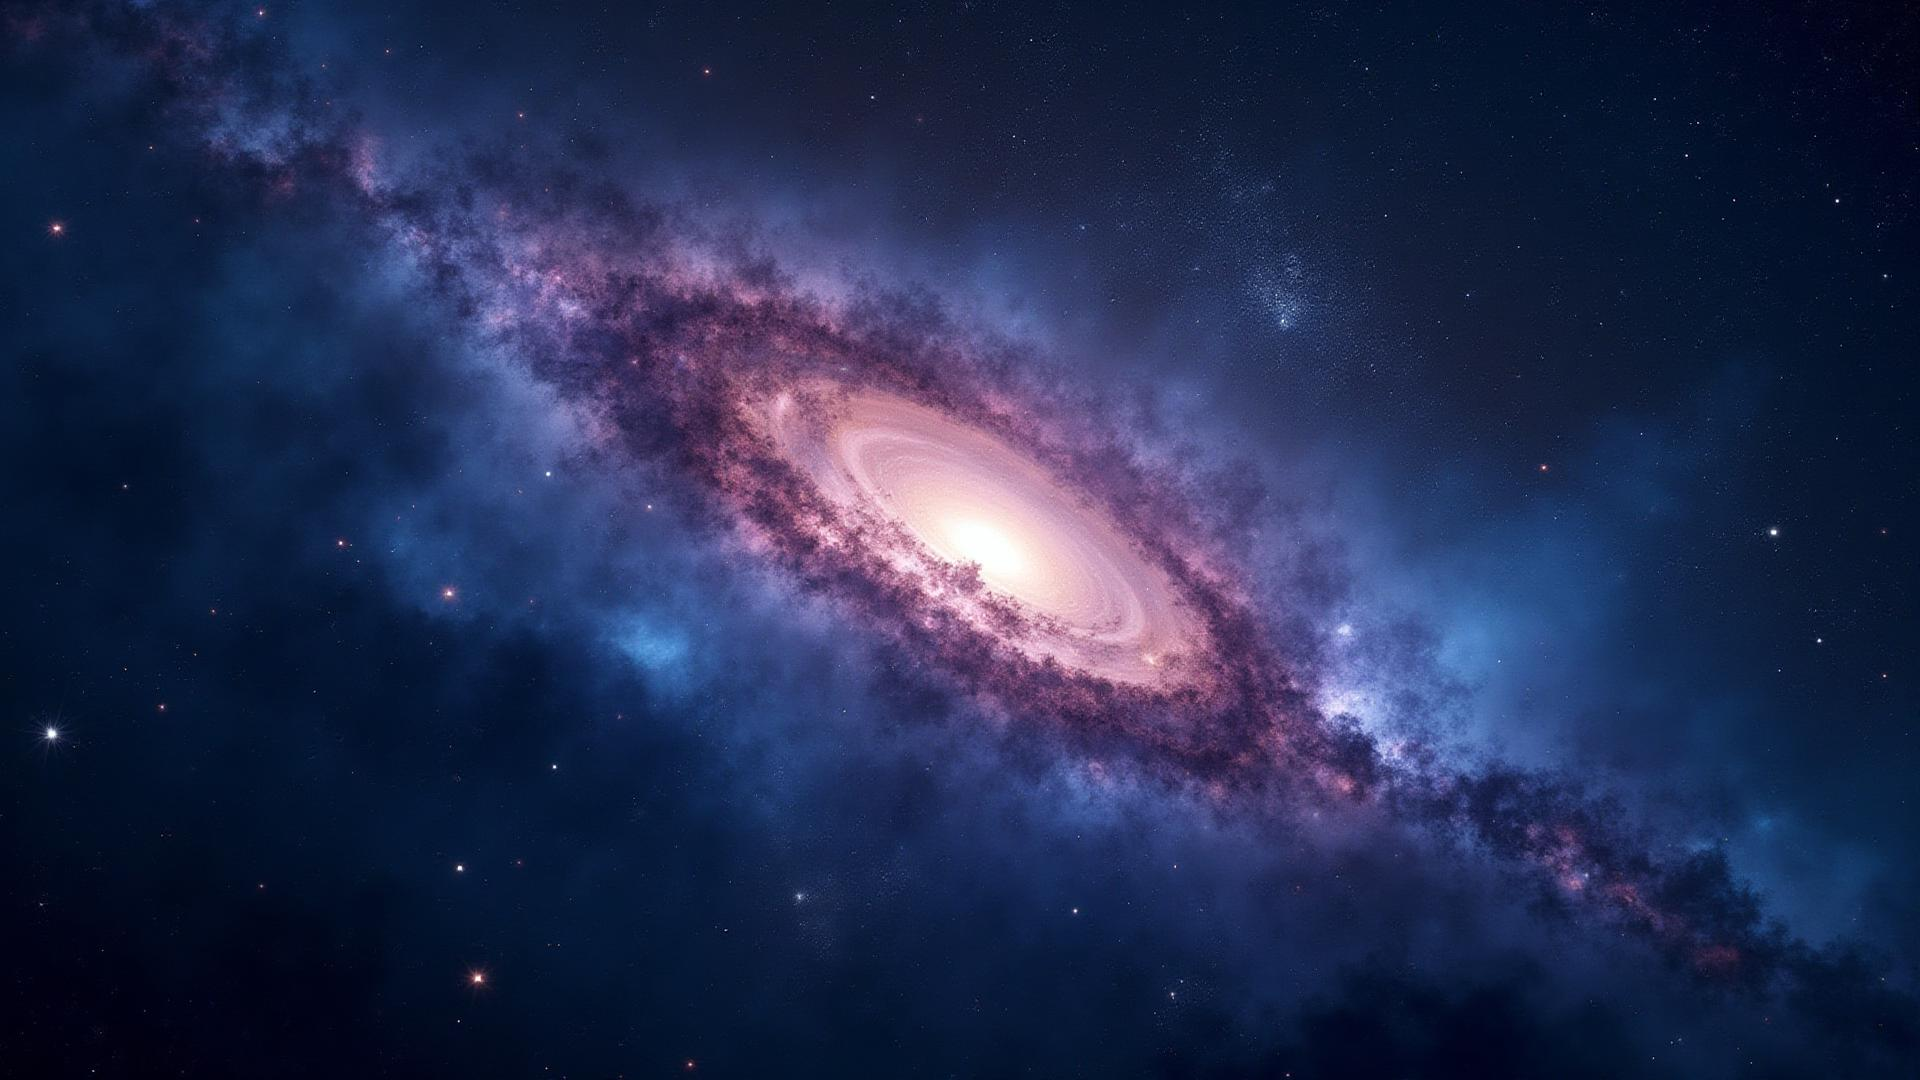
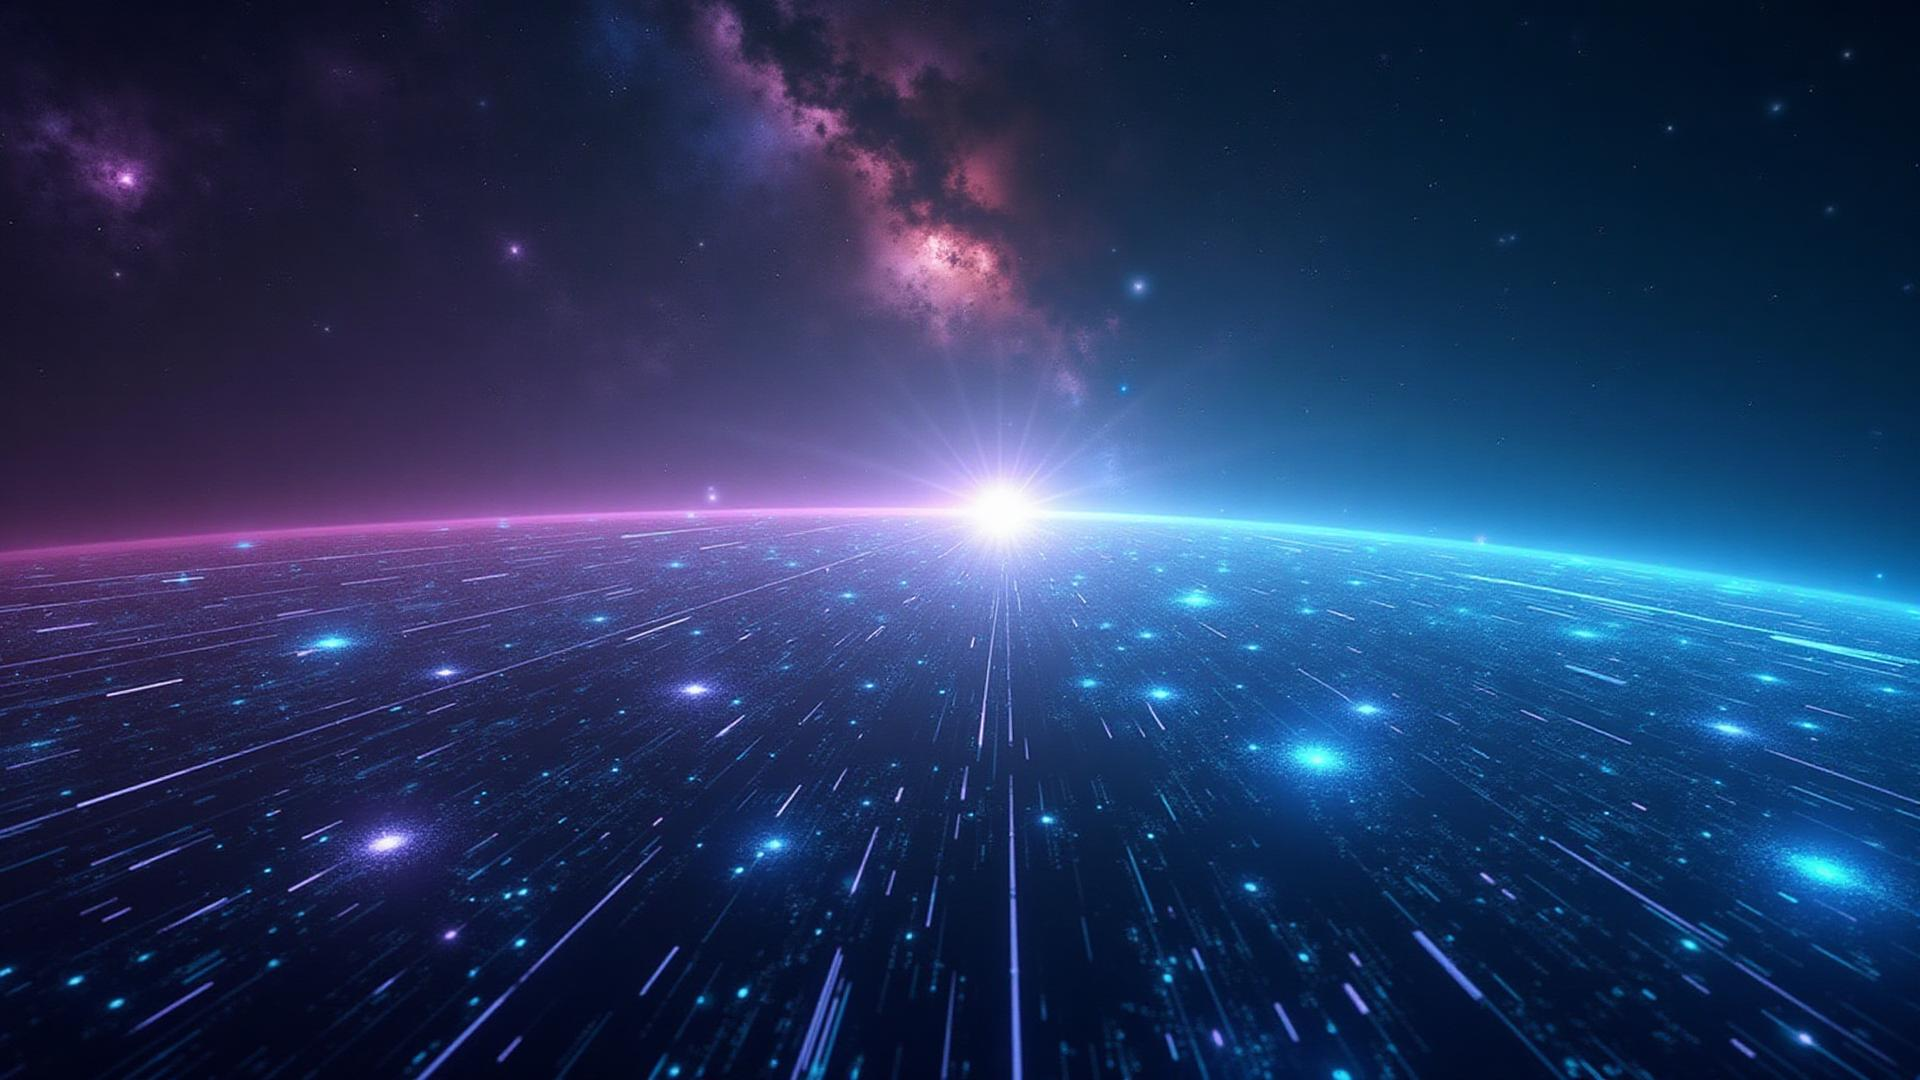
Refactor: Update background and style

diff --git a/src/index.css b/src/index.css
@@ -12,16 +12,20 @@
     --cosmos-night: 225 15% 12%;
     --cosmos-space: 225 12% 18%;
     
-    /* 星光色调 */
+    /* 科技星光色调 */
     --starlight-gold: 45 90% 75%;
     --starlight-warm: 35 85% 65%;
     --starlight-bright: 50 95% 85%;
     --starlight-dim: 45 60% 55%;
+    --tech-cyan: 195 100% 70%;
+    --tech-neon: 180 100% 60%;
     
-    /* 星云色调 */
+    /* 科技星云色调 */
     --nebula-purple: 270 65% 45%;
     --nebula-blue: 240 55% 55%;
     --nebula-violet: 280 50% 60%;
+    --tech-grid: 200 80% 40%;
+    --hologram-blue: 220 90% 60%;
     
     /* 基础系统色调 */
     --background: var(--cosmos-deep);
@@ -49,11 +53,13 @@
     --destructive: 0 75% 60%;
     --destructive-foreground: 0 0% 95%;
     
-    /* 宇宙渐变 */
+    /* 科技宇宙渐变 */
     --gradient-cosmos: linear-gradient(135deg, hsl(var(--cosmos-deep)), hsl(var(--cosmos-dark)));
     --gradient-starlight: linear-gradient(45deg, hsl(var(--starlight-gold)), hsl(var(--starlight-warm)));
     --gradient-nebula: linear-gradient(120deg, hsl(var(--nebula-purple)), hsl(var(--nebula-blue)));
     --gradient-stellar: radial-gradient(ellipse at center, hsl(var(--starlight-gold) / 0.3), transparent 70%);
+    --gradient-tech: linear-gradient(45deg, hsl(var(--tech-cyan) / 0.3), hsl(var(--hologram-blue) / 0.2));
+    --gradient-hologram: conic-gradient(from 0deg, hsl(var(--tech-cyan) / 0.4), hsl(var(--nebula-blue) / 0.3), hsl(var(--tech-neon) / 0.4));
     
     /* 阴影与光晕 */
     --shadow-cosmic: 0 8px 32px hsl(var(--cosmos-deep) / 0.8);
@@ -79,7 +85,7 @@
     font-family: 'Inter', 'Noto Sans SC', sans-serif;
   }
   
-  /* 宇宙粒子背景 */
+  /* 科技宇宙粒子背景 */
   .cosmic-bg {
     position: fixed;
     top: 0;
@@ -89,15 +95,17 @@
     pointer-events: none;
     z-index: -1;
     background: 
-      radial-gradient(2px 2px at 20px 30px, hsl(var(--starlight-dim)), transparent),
+      radial-gradient(2px 2px at 20px 30px, hsl(var(--tech-cyan)), transparent),
       radial-gradient(2px 2px at 40px 70px, hsl(var(--starlight-bright)), transparent),
-      radial-gradient(1px 1px at 90px 40px, hsl(var(--starlight-gold)), transparent),
-      radial-gradient(1px 1px at 130px 80px, hsl(var(--starlight-warm)), transparent),
+      radial-gradient(1px 1px at 90px 40px, hsl(var(--hologram-blue)), transparent),
+      radial-gradient(1px 1px at 130px 80px, hsl(var(--tech-neon)), transparent),
       radial-gradient(2px 2px at 160px 30px, hsl(var(--starlight-dim)), transparent),
+      linear-gradient(0deg, hsl(var(--tech-grid) / 0.1) 1px, transparent 1px),
+      linear-gradient(90deg, hsl(var(--tech-grid) / 0.1) 1px, transparent 1px),
       var(--gradient-cosmos);
     background-repeat: repeat;
-    background-size: 200px 100px;
-    animation: starfield 20s linear infinite;
+    background-size: 200px 100px, 200px 100px, 200px 100px, 200px 100px, 200px 100px, 50px 50px, 50px 50px, 100% 100%;
+    animation: starfield 20s linear infinite, techGrid 15s linear infinite;
   }
   
   @keyframes starfield {
@@ -106,6 +114,15 @@
     }
     to {
       transform: translateY(-100px);
+    }
+  }
+  
+  @keyframes techGrid {
+    from {
+      background-position: 0px 0px, 0px 0px, 0px 0px, 0px 0px, 0px 0px, 0px 0px, 0px 0px, 0px 0px;
+    }
+    to {
+      background-position: 0px -100px, 0px -100px, 0px -100px, 0px -100px, 0px -100px, 50px 50px, 50px 50px, 0px 0px;
     }
   }
   

diff --git a/src/components/CosmicBackground.tsx b/src/components/CosmicBackground.tsx
@@ -64,21 +64,48 @@ export const CosmicBackground = () => {
         ctx.save();
         ctx.globalAlpha = particle.brightness;
         
-        // 星光效果
+        // 科技星光效果
         const gradient = ctx.createRadialGradient(
           particle.x, particle.y, 0,
-          particle.x, particle.y, particle.size * 3
+          particle.x, particle.y, particle.size * 4
         );
-        gradient.addColorStop(0, 'hsl(45, 90%, 75%)');
+        
+        // 随机选择科技色彩
+        const colors = [
+          'hsl(195, 100%, 70%)', // tech-cyan
+          'hsl(45, 90%, 75%)',   // starlight-gold
+          'hsl(220, 90%, 60%)',  // hologram-blue
+          'hsl(180, 100%, 60%)'  // tech-neon
+        ];
+        const color = colors[Math.floor(particle.x + particle.y) % colors.length];
+        
+        gradient.addColorStop(0, color);
+        gradient.addColorStop(0.7, color.replace('70%', '40%'));
         gradient.addColorStop(1, 'transparent');
         
         ctx.fillStyle = gradient;
         ctx.beginPath();
-        ctx.arc(particle.x, particle.y, particle.size * 3, 0, Math.PI * 2);
+        ctx.arc(particle.x, particle.y, particle.size * 4, 0, Math.PI * 2);
         ctx.fill();
         
+        // 科技十字光芒
+        if (particle.brightness > 0.7) {
+          ctx.strokeStyle = color;
+          ctx.lineWidth = 0.5;
+          ctx.globalAlpha = particle.brightness * 0.5;
+          
+          ctx.beginPath();
+          ctx.moveTo(particle.x - particle.size * 2, particle.y);
+          ctx.lineTo(particle.x + particle.size * 2, particle.y);
+          ctx.moveTo(particle.x, particle.y - particle.size * 2);
+          ctx.lineTo(particle.x, particle.y + particle.size * 2);
+          ctx.stroke();
+          
+          ctx.globalAlpha = particle.brightness;
+        }
+        
         // 中心星点
-        ctx.fillStyle = 'hsl(45, 90%, 85%)';
+        ctx.fillStyle = color;
         ctx.beginPath();
         ctx.arc(particle.x, particle.y, particle.size, 0, Math.PI * 2);
         ctx.fill();
